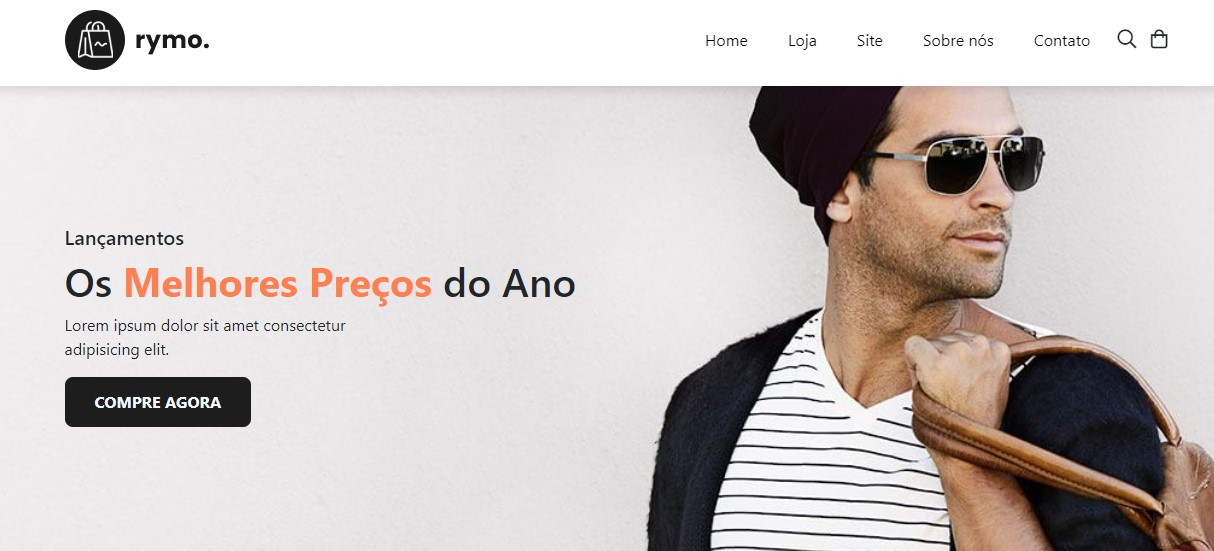
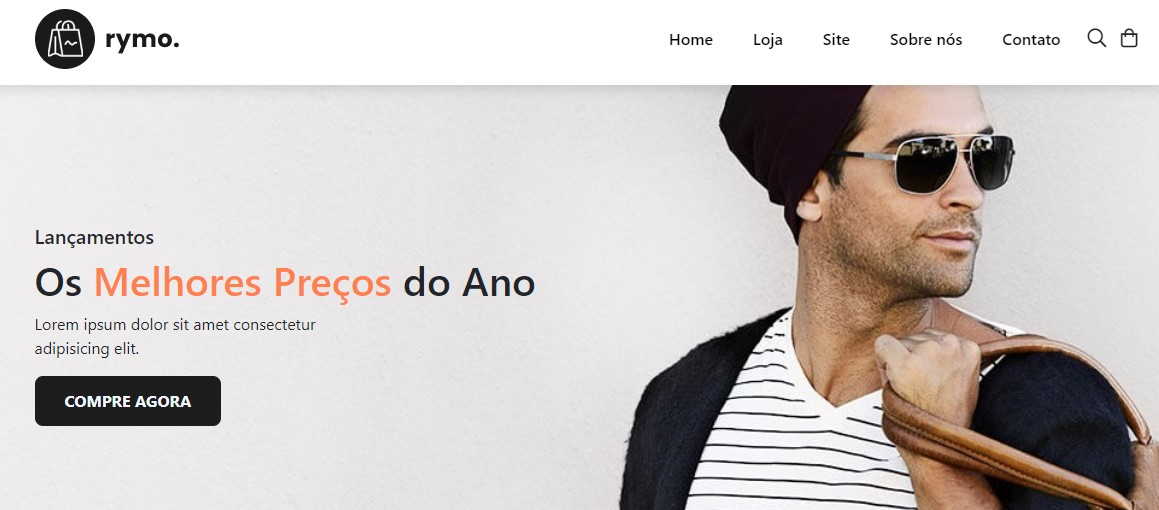
Home FINALIZADA 🤩😁😎😎

diff --git a/assets/css/home.css b/assets/css/home.css
@@ -71,6 +71,7 @@ button:hover {
 .navbar-light .navbar-nav .nav_link {
   padding: 0 20px;
   color: black;
+  font-weight: 500;
   text-decoration: none;
   transition: 0.3 ease;
 }

diff --git a/README.md b/README.md
@@ -6,7 +6,7 @@
 # Rymo - Ecommerce Full Responsive Website with Bootstrap
 
 <p>Esse projeto foi feito por: <strong>Thiago Silva Lopes</strong>, em 07/2021,</br>
-tendo como base os <a href="https://www.youtube.com/playlist?list=PL9bD98LkBR7O4_SVeN8IXLQRjrGontmbT" target="_blank">tutoriais,</a>
+tendo como base nos <a href="https://www.youtube.com/playlist?list=PL9bD98LkBR7O4_SVeN8IXLQRjrGontmbT" target="_blank">tutoriais,</a>
 do canal do Youtube: <a href="https://www.youtube.com/c/Tech2etc" target="_blank">
 Tech2 etc</a></p>
 
